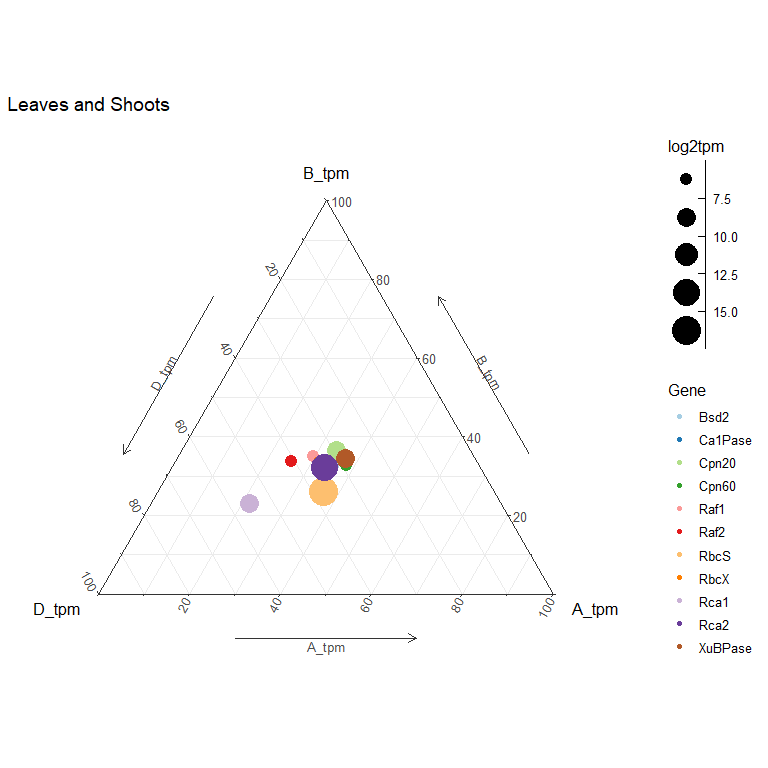
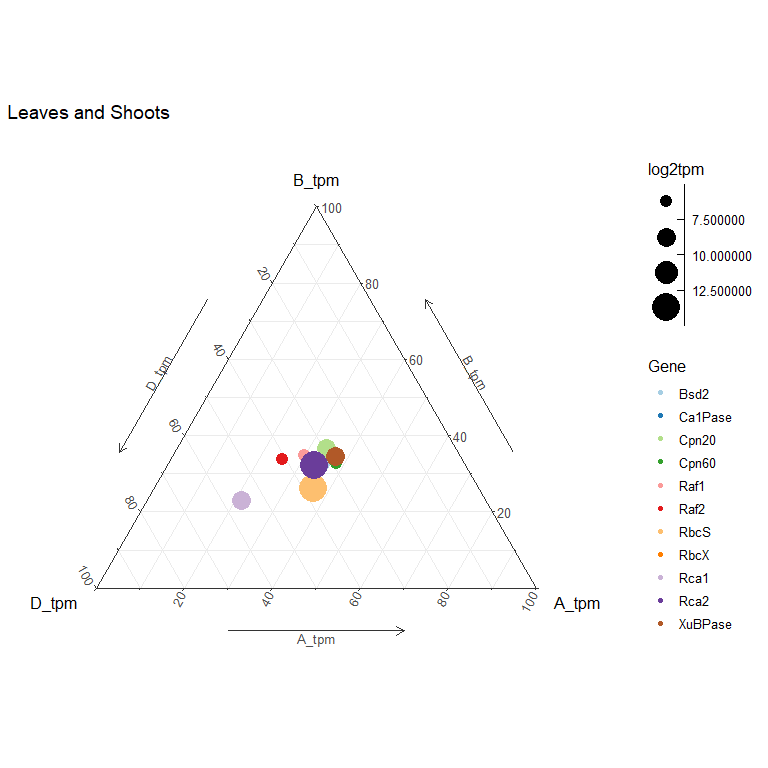
Updates to charts

diff --git a/Wheat-Rubiscosome-Expression-Balance-Report.md b/Wheat-Rubiscosome-Expression-Balance-Report.md
@@ -275,7 +275,8 @@ Rubiscosome_Leaf <- ggtern(Rubiscosome_mean_leaf, aes(D_tpm, B_tpm, A_tpm)) +
   geom_mask() +
   geom_point(aes(color = Gene,
                  size = log2tpm)) +
-  scale_size_binned(range = c(1, 10)) +
+  scale_size_binned(range = c(1, 10),
+                    breaks = c(7.5, 10, 12.5)) +
   scale_color_manual(values=c("#a6cee3", "#1f78b4", "#b2df8a", "#33a02c",
                               "#fb9a99", "#e31a1c", "#fdbf6f", "#ff7f00",
                               "#cab2d6", "#6a3d9a", "#b15928" )) +
@@ -295,7 +296,8 @@ Rubiscosome_Spike <- ggtern(Rubiscosome_mean_spike, aes(D_tpm, B_tpm, A_tpm)) +
   geom_mask() +
   geom_point(aes(color = Gene,
                  size = log2tpm)) +
-    scale_size_binned(range = c(1, 10)) +
+    scale_size_binned(range = c(1, 10),
+                      breaks = c(7.5, 10, 12.5)) +
   scale_color_manual(values=c("#a6cee3", "#1f78b4", "#b2df8a", "#33a02c",
                               "#fb9a99", "#e31a1c", "#fdbf6f", "#ff7f00",
                               "#cab2d6", "#6a3d9a", "#b15928" )) +
@@ -316,7 +318,8 @@ Rubiscosome_Heat_Stress <- ggtern(Rubiscosome_mean_heat_control, aes(D_tpm, B_tp
   geom_point(aes(color = Gene,
                  size = log2tpm,
                  shape = Stress)) +
-    scale_size_binned(range = c(1, 10)) +
+    scale_size_binned(range = c(1, 10),
+                      breaks = c(7.5, 10, 12.5)) +
   scale_color_manual(values=c("#a6cee3", "#1f78b4", "#b2df8a", "#33a02c",
                               "#fb9a99", "#e31a1c", "#fdbf6f", "#ff7f00",
                               "#cab2d6", "#6a3d9a", "#b15928" )) +
